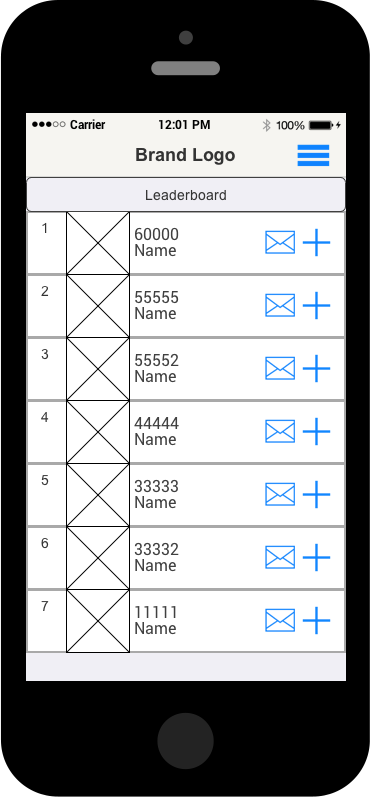
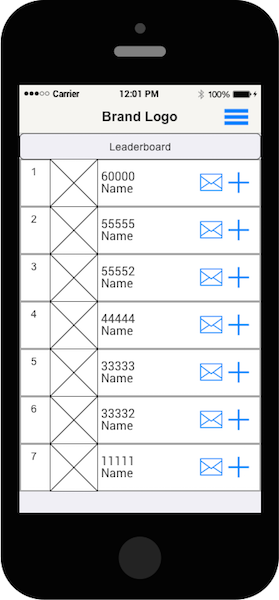
revised readme images and link to collage

diff --git a/README.md b/README.md
@@ -2,7 +2,7 @@
 
 Mobile Fitness App Mockup is a concept for a software product that is developed using the Software Development Life Cycle (SDLC). SDLC is a software development process with clearly defined phases. The purpose of utilizing a SDLC is to develop a high quality software that meets/exceeds customer expectations. The goal of Mobile Fitness App Mockup is to increase happiness in obesity patients. This software provides tools to motivate patients to lose weight. By enabling patients to lose weight, patients will be able to improve their quality of life and happiness.
 
-![mobile_fitness_collage](https://github.com/hinsenchan/mobile_fitness_app_mockup/blob/master/readme/mobile_fitness_collage)
+![mobile_fitness_collage](https://github.com/hinsenchan/mobile_fitness_app_mockup/blob/master/readme/mobile_fitness_collage.png)
 
 # General Description
 
